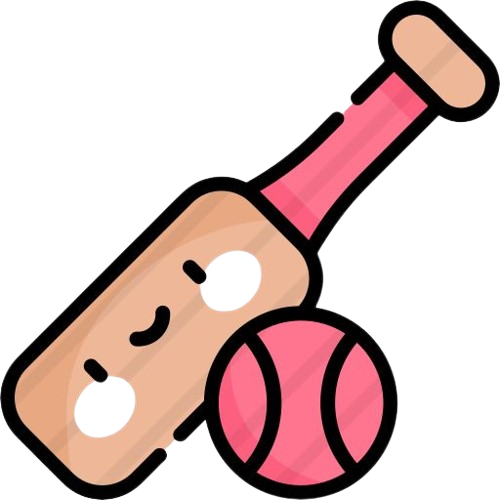
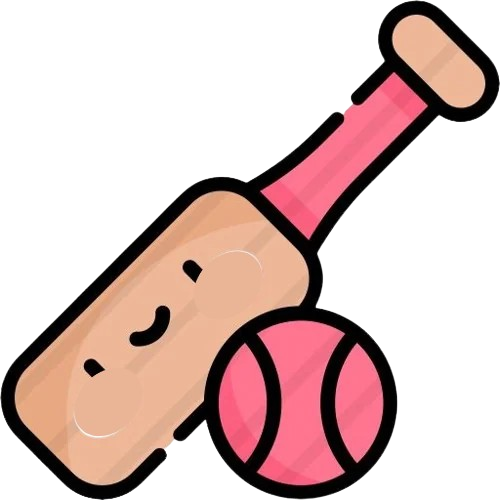
logoedits

diff --git a/index.html b/index.html
@@ -3,8 +3,8 @@
 <head>
   <meta charset="utf-8">
   <meta name="viewport" content="width=device-width, initial-scale=1">
-  <title>Home | HIVE</title>
-  <link rel="icon" type="image/png" href="images/tea.png">
+  <title>Home | Convene</title>
+  <link rel="icon" type="image/png" href="images/log.png">
   <script>
     document.documentElement.setAttribute("data-bs-theme", localStorage.getItem("theme") || "light");
   </script>
@@ -17,7 +17,7 @@
 <!--navigation bar-->
 <nav class="navbar navbar-expand-lg navbar-dark bg-dark sticky-top">
   <div class="container">
-    <a class="navbar-brand" href="index.html"><img src="images/logo.png" height="60" alt="hive logo"></a>
+    <a class="navbar-brand" href="index.html"><img src="images/log.png" height="60" alt="convene logo"></a>
     <button class="navbar-toggler" data-bs-toggle="collapse" data-bs-target="#menu"><span class="navbar-toggler-icon"></span></button>
     <div class="collapse navbar-collapse" id="menu">
       <ul class="navbar-nav ms-auto">
@@ -74,8 +74,8 @@
 
 <!--footer-->
 <footer class="bg-dark text-light text-center py-4 mt-5">
-  <p class="mb-1">HIVE Events | hive@university.edu.pk</p>
-  <small>&copy; 2026 HIVE IICT PROJECT</small>
+  <p class="mb-1">Convene Events | convene@university.edu.pk</p>
+  <small>&copy; 2026 Convene IICT PROJECT</small>
 </footer>
 <script src="https://cdn.jsdelivr.net/npm/bootstrap@5.3.3/dist/js/bootstrap.bundle.min.js"></script>
 <script src="js/main.js"></script>
